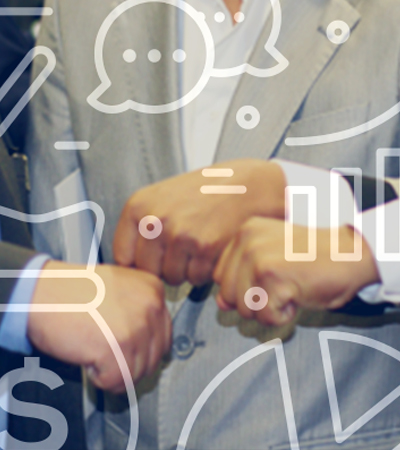
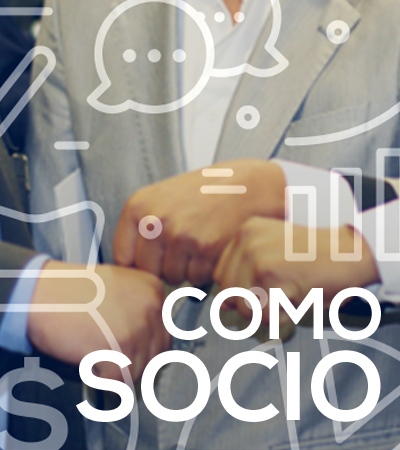
Cambios x10

Changed region(s): [[0.18, 0.4978, 0.99, 1.0]]

diff --git a/home.html b/home.html
@@ -459,14 +459,20 @@
                         </figure>
                     </div>
                     <div class="col-md-4 col-sm-6">
-                        <div class="iq-pricing">
+                        <!--<div class="iq-pricing">
                             <span class="icon"><i aria-hidden="true" class="ion-social-bitcoin-outline"></i></span>
                             <div class="pricing-header">
                                 <h3 class="title">Como cliente</h3>
-                                <!--<span class="price-value">$29</span>-->
+                                <!--<span class="price-value">$29</span>
                             </div>
                             <a class="button" href="#">Read More</a>
-                        </div>
+                        </div>-->
+						<figure class="imghvr-shutter-out-diag-1">
+                            <img src="images/socio.jpg">
+                                <figcaption>
+                                        <H3>Como cliente</H2>
+                                </figcaption>
+                        </figure>
                     </div>
                     <!--<div class="col-md-3 col-sm-6">
                         <div class="iq-pricing">
@@ -578,7 +584,7 @@
                         </div>
                     </div>
                     <div class="col-lg-4 col-md-12 align-self-center text-center">
-                        <img class="img-fluid" src="http://via.placeholder.com/335x247" alt="">
+                        <img class="img-fluid" src="images/quantum-logo.png" alt="">
                     </div>
                     <div class="col-lg-4 col-md-12">
                         <div class="iq-feature2 iq-mtb-20 first-r">
